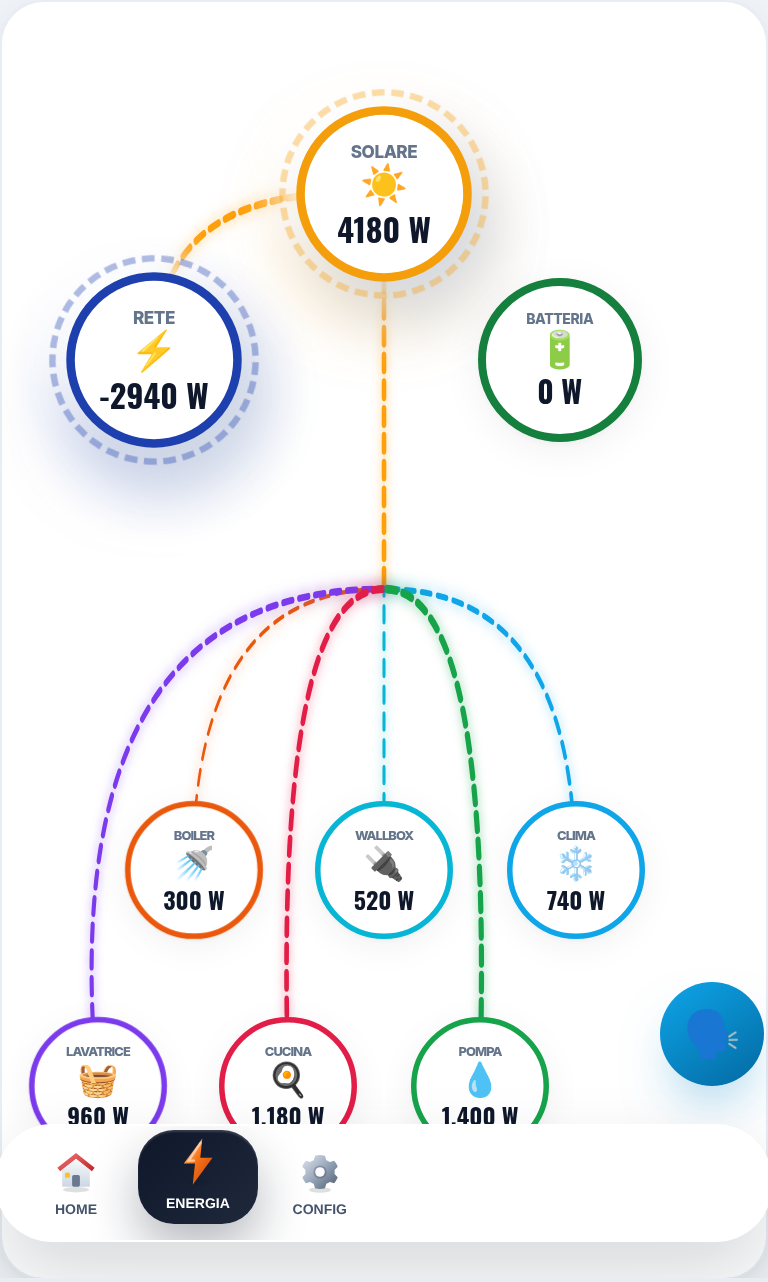
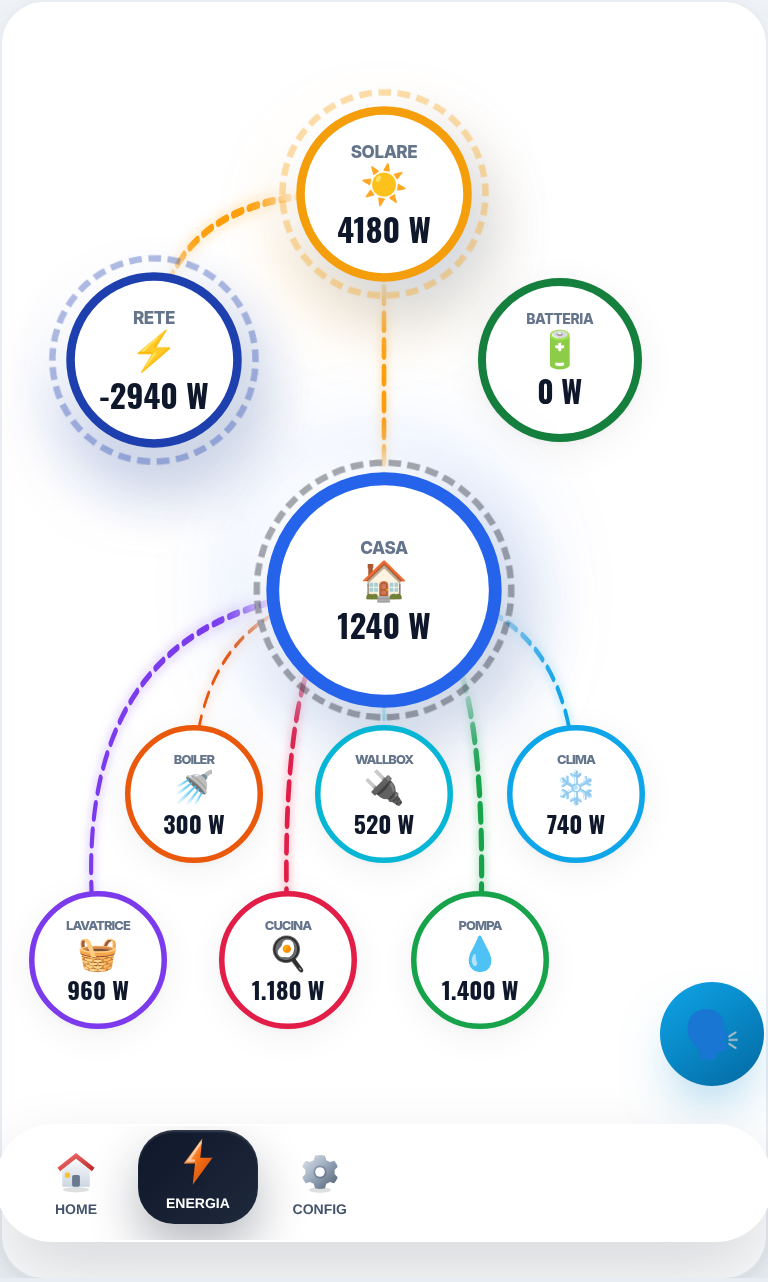
La seconda fila dei carichi sale sopra la barra dell'app
La barra dell'app sul telefono galleggia in fondo allo schermo e sta
sopra tutto: misurata, copre gli ultimi 134 punti di un palco alto 640 —
da 506 in giu'. Con una fila sola i carichi finiscono a 469 e non la
toccano, ed e' cosi' che il disegno e' nato. La seconda fila, che nasce
dal quinto carico in poi, cadeva a 509-578: sotto la barra, col numero
dentro. Chi apriva Energia vedeva i watt dei suoi ultimi carichi coperti,
e per leggerli doveva scorrere senza sapere che ci fosse qualcosa da
scorrere.

Lo spazio si e' trovato senza rimpicciolire niente e senza toccare la
meta' di sopra: Solare, Rete, Batteria e Casa restano dove sono, al
punto. Fra la Casa e la prima fila c'erano 43 punti di aria, e fra le due
file altri 40 — quaranta e passa piu' del necessario. Messi insieme
bastano: le file salgono di 67 punti, e il numero dell'ultima passa da 55
punti sotto la barra a 6 sopra. Misurato sulla pagina vera.

    dentro il palco        prima      dopo
    prima fila           400-469   362-431
    seconda fila         509-578   445-514
    numero ultima fila   543-556   487-500
    la barra comincia a      506       506

Restano nove punti fra la Casa e la prima fila, e quattordici fra le due
file: si sono avvicinate, non accavallate, e una prova lo pretende.

Con quattro carichi o meno non cambia niente, ed e' voluto: li' la fila
e' una sola e non ha mai toccato niente. Chi non ha chiesto questo non
deve accorgersi che il disegno e' cambiato.
[…]

diff --git a/officina/custom_components/dashboardmodern/frontend/tests/energy-flow-topology.test.js b/officina/custom_components/dashboardmodern/frontend/tests/energy-flow-topology.test.js
@@ -86,9 +86,11 @@ test("mobile wraps onto a second row instead of crushing eight bubbles into one"
     eight.map(({ row }) => row),
     [0, 0, 0, 0, 1, 1, 1, 1],
   );
+  /* Con due file i cerchi salgono: la seconda, giu' dov'era, finiva sotto la
+   * barra dell'app. Il perche' sta accanto a `dueFile`, e la prova sotto. */
   assert.deepEqual(
     eight.map(({ top }) => top),
-    [68, 68, 68, 68, 85, 85, 85, 85],
+    [62, 62, 62, 62, 75, 75, 75, 75],
   );
   assert.ok(eight.every(({ path }) => path.startsWith("M 500 460 ")));
   const five = flowStageLayout(5, "mobile");
@@ -170,9 +172,13 @@ test("la linea che scavalca una fila arriva dritta sulla sua verticale (#118)", 
    * non fosse ancora arrivata alla sua x, si mangerebbe il mezzo passo dello
    * sfalsamento e tornerebbe a sfiorare la bolla di sopra. */
   const sei = flowStageLayout(6, "mobile");
+  /* L'altezza della prima fila si chiede al disegno, non si scrive qui: le
+   * file si sono gia' spostate una volta, e una prova che se la ricorda a
+   * memoria misura il posto sbagliato senza dirlo. */
+  const primaFila = sei.find(({ row }) => row === 0).y;
   for (const bolla of sei.filter(({ row }) => row > 0)) {
     const [, , , cx, , x1] = bolla.path.match(/^M (\S+) (\S+) Q (\S+) (\S+) (\S+) (\S+)$/);
-    const punto = puntiDelConnettore(bolla.path).find(([, y]) => y >= 680);
+    const punto = puntiDelConnettore(bolla.path).find(([, y]) => y >= primaFila);
     /* Due unita' su mille di sfrido: la linea qui si campiona a passi, e il
      * punto di comando si scrive con un decimale. La regola e' «dritta», non
      * «dritta al millesimo». */
@@ -189,6 +195,56 @@ test("la linea che scavalca una fila arriva dritta sulla sua verticale (#118)", 
     if (!bolla.path.includes("Q")) continue;
     const [, , , cx, , x1] = bolla.path.match(/^M (\S+) (\S+) Q (\S+) (\S+) (\S+) (\S+)$/);
     assert.equal(Number(cx), Number(x1));
+  }
+});
+
+/* La barra dell'app sul telefono galleggia in fondo allo schermo e arriva a
+ * coprire gli ultimi 134 punti del palco: misurato, copre da 506 in giu' su un
+ * palco alto 640. Qui si lavora in centesimi, che e' come sono scritte le
+ * altezze delle file. */
+const DOVE_ARRIVA_LA_BARRA = (506 / 640) * 100;
+/* Mezza bolla, in centesimi dell'altezza del palco: 75 punti di diametro
+ * ristretti da `flowNodeScale`, su 640. */
+const MEZZA_BOLLA = (quanti) => ((75 * flowNodeScale(quanti)) / 2 / 640) * 100;
+
+test("con due file i numeri dell'ultima restano sopra la barra dell'app", () => {
+  /* Il numero di un carico sta in fondo alla bolla, ma dentro: sotto di lui
+   * resta un quarto di cerchio. Quello che deve stare sopra la barra e' il
+   * numero — se finisce sotto, chi apre Energia vede i watt dei suoi ultimi
+   * carichi coperti, e per leggerli deve scorrere senza sapere che ci sia
+   * qualcosa da scorrere. */
+  for (let quanti = 5; quanti <= FLOW_MAX_LOADS; quanti += 1) {
+    const bolle = flowStageLayout(quanti, "mobile");
+    const ultima = Math.max(...bolle.map(({ top }) => top));
+    const fondoDelNumero = ultima + MEZZA_BOLLA(quanti) * 0.45;
+    assert.ok(
+      fondoDelNumero <= DOVE_ARRIVA_LA_BARRA,
+      `con ${quanti} carichi il numero dell'ultima fila arriva a ` +
+        `${fondoDelNumero.toFixed(1)}, e la barra comincia a ` +
+        `${DOVE_ARRIVA_LA_BARRA.toFixed(1)}`,
+    );
+  }
+});
+
+test("le file salgono solo quando sono due, e non si toccano (#118)", () => {
+  /* Chi ha quattro carichi o meno non deve accorgersi di questa riga: li' la
+   * fila e' una, e sta dov'e' sempre stata. */
+  for (let quanti = 1; quanti <= 4; quanti += 1)
+    assert.ok(
+      flowStageLayout(quanti, "mobile").every(({ top }) => top === 68),
+      `con ${quanti} carichi la fila deve restare al 68`,
+    );
+
+  /* E salendo non si accavallano fra loro: fra i due centri ci deve stare una
+   * bolla intera piu' un dito d'aria. */
+  for (let quanti = 5; quanti <= FLOW_MAX_LOADS; quanti += 1) {
+    const file = [...new Set(flowStageLayout(quanti, "mobile").map(({ top }) => top))];
+    assert.equal(file.length, 2, `con ${quanti} carichi le file devono essere due`);
+    assert.ok(
+      file[1] - file[0] > MEZZA_BOLLA(quanti) * 2,
+      `con ${quanti} carichi le due file distano ${(file[1] - file[0]).toFixed(1)}, ` +
+        `e una bolla e' alta ${(MEZZA_BOLLA(quanti) * 2).toFixed(1)}`,
+    );
   }
 });
 

diff --git a/officina/custom_components/dashboardmodern/frontend/e2e/i-flussi-non-attraversano-le-bolle.spec.js b/officina/custom_components/dashboardmodern/frontend/e2e/i-flussi-non-attraversano-le-bolle.spec.js
@@ -34,6 +34,7 @@ const SEME = {
     pool: {},
     irrigation: { zones: [] },
     energy: {
+      house: { power: "sensor.casa_w" },
       solar: { power: "sensor.fv_w" },
       grid: { power: "sensor.rete_w" },
       battery: { power: "sensor.batt_w" },
@@ -63,6 +64,7 @@ test("sei carichi: le file si sfalsano e le linee passano nei varchi", async ({
       };
       STATES[id] = _RAW_STATES[id];
     };
+    scrivi("sensor.casa_w", 1240);
     scrivi("sensor.fv_w", 4180);
     scrivi("sensor.rete_w", -2940);
     scrivi("sensor.batt_w", 0);
@@ -153,6 +155,47 @@ test("sei carichi: le file si sfalsano e le linee passano nei varchi", async ({
       }
     }
   }
+
+  /* E la barra dell'app non copre i numeri dell'ultima fila.
+   *
+   * La barra galleggia in fondo allo schermo e sta sopra tutto: sul telefono
+   * arriva a coprire l'ultimo pezzo del palco. Con una fila sola i carichi non
+   * la toccano — il disegno è nato così — ma la seconda, che nasce dal quinto
+   * carico in poi, ci finiva dentro col numero. Chi apriva Energia vedeva i
+   * watt dei suoi ultimi carichi coperti, e per leggerli doveva scorrere senza
+   * sapere che ci fosse qualcosa da scorrere. */
+  const laBarra = await page.evaluate(() => {
+    const barra =
+      document.querySelector("nav.tabs.bottom-nav-bar") || document.querySelector("nav.tabs");
+    if (!barra || getComputedStyle(barra).position !== "fixed") return null;
+    const stage = document.querySelector(".flow-stage").getBoundingClientRect();
+    const numeri = [...document.querySelectorAll(".flow-stage .node.n-load .dm-flow-value")]
+      .map((nodo) => nodo.getBoundingClientRect())
+      .filter((riga) => riga.width > 0);
+    return {
+      comincia: barra.getBoundingClientRect().top,
+      ultimoNumero: Math.max(...numeri.map((riga) => riga.bottom)),
+      casa: document.querySelector("#n-home")?.getBoundingClientRect().bottom ?? null,
+      /* Solo quelle disegnate: la scena si porta dietro i cerchi fissi del
+         guscio storico, spenti, e un rettangolo di misura zero falserebbe il
+         conto senza dirlo. */
+      primaFila: Math.min(
+        ...[...document.querySelectorAll(".flow-stage .node.n-load[data-dm-flow-node]")]
+          .map((nodo) => nodo.getBoundingClientRect())
+          .filter((riga) => riga.width > 0)
+          .map((riga) => riga.top),
+      ),
+      alto: stage.height,
+    };
+  });
+  expect(laBarra, "la barra in basso deve esserci, o questa prova non prova niente").not.toBeNull();
+  expect(
+    laBarra.ultimoNumero,
+    "il numero dell'ultima fila finisce sotto la barra dell'app",
+  ).toBeLessThanOrEqual(laBarra.comincia);
+  /* E salendo non sono andate a finire addosso alla Casa. */
+  expect(laBarra.casa, "la Casa deve essere disegnata").not.toBeNull();
+  expect(laBarra.primaFila, "la prima fila tocca la Casa").toBeGreaterThan(laBarra.casa);
 
   await palco.screenshot({
     path: process.env.SCATTO_FLUSSI || "/tmp/flussi-dopo.png",

diff --git a/ponte/plancia/src/core/energy-flow-topology.js b/ponte/plancia/src/core/energy-flow-topology.js
@@ -56,6 +56,25 @@ const MOBILE = Object.freeze({
   homeY: 460,
   rowY: [680, 850],
   rowTop: [68, 85],
+  /* Con DUE file i cerchi salgono, e l'aria se la tolgono fra loro.
+   *
+   * La barra dell'app sul telefono galleggia in fondo allo schermo, e sopra un
+   * palco alto 640 punti arriva a coprirne gli ultimi 134: misurato, copre da
+   * 506 in giu'. Con una fila sola i carichi finiscono a 469 e non la toccano —
+   * il disegno e' nato cosi'. La seconda fila, che nasce dal quinto carico in
+   * poi, cadeva a 509-578: sotto la barra, col numero dentro. Chi apriva
+   * Energia vedeva i watt dei suoi ultimi carichi coperti, e per leggerli
+   * doveva scorrere senza sapere che ci fosse qualcosa da scorrere.
+   *
+   * Lo spazio si trova senza rimpicciolire niente e senza toccare la meta' di
+   * sopra — Solare, Rete, Batteria e Casa restano dove sono. Fra Casa e la
+   * prima fila c'erano 43 punti di aria, e fra le due file altri 40: sono
+   * quaranta e passa piu' del necessario, e messi insieme bastano. Le file
+   * salgono di 67 punti e i numeri tornano sopra la barra.
+   *
+   * Con una fila sola non cambia niente, ed e' voluto: chi ha quattro carichi
+   * o meno non deve accorgersi di questa riga. */
+  dueFile: { rowY: [620, 750], rowTop: [62, 75] },
   perRow: 4,
 });
 
@@ -233,6 +252,9 @@ export function flowStageLayout(count, variant = "desktop") {
   const sizes = rowsFor(count, geometry);
   const positions = [];
   const primaFila = sizes[0] || 0;
+  /* Dove stanno le file: piu' in alto quando sono due, cosi' la seconda non
+   * finisce sotto la barra dell'app. Il perche' sta accanto a `dueFile`. */
+  const righe = sizes.length > 1 && geometry.dueFile ? geometry.dueFile : geometry;
   sizes.forEach((size, rowIndex) => {
     for (let column = 0; column < size; column += 1) {
       /* La prima fila spartisce la larghezza; quelle sotto si sfalsano nei
@@ -243,15 +265,15 @@ export function flowStageLayout(count, variant = "desktop") {
           : sfalsata(geometry.width, primaFila, size, column);
       /* Chi sta sotto deve scavalcare la fila di sopra: la sua linea si
        * raddrizza prima di arrivarci. Il perche' sta in `connectorPath`. */
-      const oltre = rowIndex === 0 ? null : geometry.rowY[rowIndex - 1];
+      const oltre = rowIndex === 0 ? null : righe.rowY[rowIndex - 1];
       positions.push({
         index: positions.length,
         row: rowIndex,
         left: round((x / geometry.width) * 100, 3),
-        top: geometry.rowTop[rowIndex],
+        top: righe.rowTop[rowIndex],
         x: round(x, 1),
-        y: geometry.rowY[rowIndex],
-        path: connectorPath(geometry, round(x, 1), geometry.rowY[rowIndex], oltre),
+        y: righe.rowY[rowIndex],
+        path: connectorPath(geometry, round(x, 1), righe.rowY[rowIndex], oltre),
       });
     }
   });
